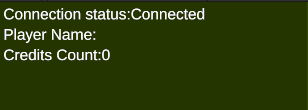
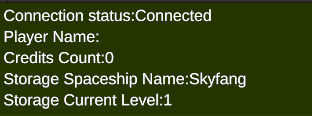
[+] was added new images and descriptions for new commands

diff --git a/docs/arcade-launch/unity-plugin/testing.md b/docs/arcade-launch/unity-plugin/testing.md
@@ -11,19 +11,39 @@ Open the example scene to test plugin functionality:
 `Assets > Luxodd.Game > Example > Scenes > ExampleScene`
 
 ![Example Scene](./assets/image10.png)
+![Example Scene UserState](./assets/image17.png)
 
 ## Available Test Functions
 Use the following buttons in the scene:
-- Connect to Server — initiates a server connection
-- Get User Profile — requests the user's profile and credit balance
-- Toggle Health Check — sends a health_status_check every 2 seconds
-- Add Credits Request — adds 5 credits (requires PIN input)
-- Charge Credits Request — deducts 3 credits (requires PIN input)
+### Main Command Panel
+- **Connect to Server** — initiates a server connection
+- **Get User Profile** — requests the user's profile and credit balance
+- **Toggle Health Check** — sends a health_status_check every 2 seconds
+- **Add Credits Request** — adds 5 credits (requires PIN input)
+- **Charge Credits Request** — deducts 3 credits (requires PIN input)
+- **Storage Commands** — switches to the User State Test Panel, which allows testing of the server-side user state storage.
 
-![Connect to Server Button](./assets/image12.png)
+### User State Commands Panel
+This panel is used strictly for testing how user state is stored and synchronized with the server. It does not affect gameplay logic.
+- **Input Fields (Top Two Fields)** - Example of selecting a spaceship type and setting a level. 
+
+:::note
+These are only test parameters for internal state, not actual gameplay values.
+:::
+
+- **Clear User State** - Sends a command to the server that clears all saved data (sends null as the user state).
+- **Get User State** -  Requests the current user state from the server and applies it locally on the client.
+- **Set User State** - Sends the current client-side user state to the server.
+- **Back** - Returns to the Main Command Panel.
+
+
+
+![Connect to Server Button](./assets/image12.png) 
 ![Get User Profile Button](./assets/image6.png)
+
 ![Toggle Health Check Button](./assets/image8.png)
-![Add Credits Button](./assets/image5.png)
+
+![Add Credits Button](./assets/image5.png) 
 ![Charge Credits Button](./assets/image11.png)
 
 :::note

diff --git a/docs/arcade-launch/unity-plugin/integration.md b/docs/arcade-launch/unity-plugin/integration.md
@@ -109,6 +109,37 @@ SendLeaderboardRequestCommand(Action<LeaderboardDataResponse> onSuccessCallback,
 Fetches the latest leaderboard data to show top players and their ranks.
 :::
 
+## 8. Working with User State
+To get and set user-defined persistent state stored on the server:
+
+```csharp
+SendGetUserDataRequestCommand(Action<object> onSuccessCallback, Action<int, string> onFailureCallback)
+```
+
+:::tip
+Requests the user state from the server. On the first request, the value may be `null` if no state is stored yet.
+:::
+
+```csharp
+SendSetUserDataRequestCommand(object userData, Action onSuccessCallback, Action<int, string> onFailureCallback)
+```
+
+:::tip
+Sends a new user state object to the server to be saved. Can be used to persist user-specific parameters.
+:::
+
+:::note
+### Tips for Using User State
+- It is recommended to use a simple class containing primitive types (`int`, `float`, `string`) that can be easily serialized into JSON.
+- For more flexible or dynamic data structures, use:
+    ```csharp
+    Dictionary<string, object> userData
+    ```
+    This key–value format makes it easier to handle complex state updates and partial modifications.
+:::
+
+
+
 ## Next Steps
 - [Review API documentation](./api-reference.md)
 - [Check arcade compatibility guidelines](./arcade-compatibility.md) 
